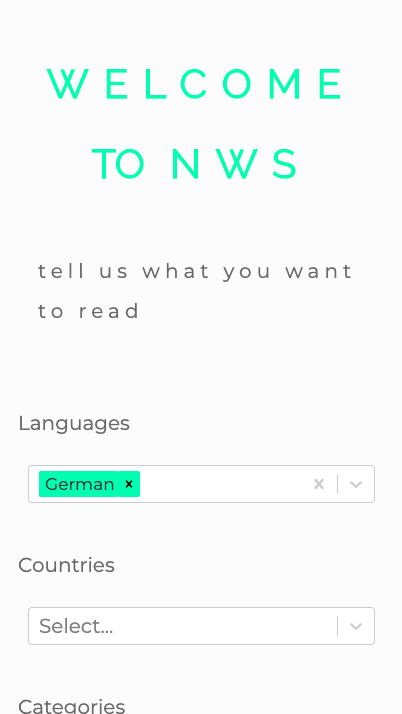
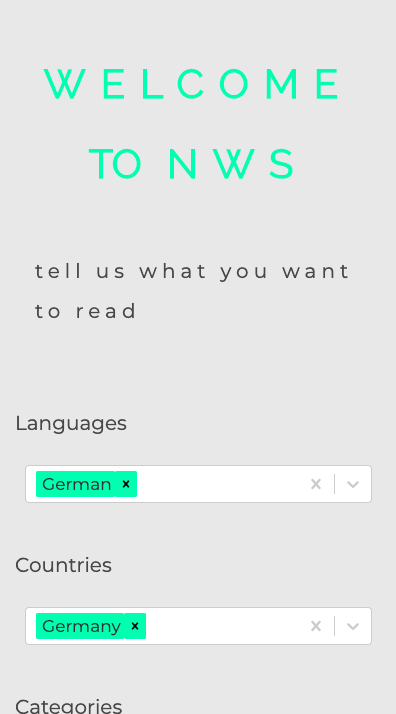
styling faffing

diff --git a/src/pages/News/News.js b/src/pages/News/News.js
@@ -3,7 +3,7 @@ import { navigate } from 'hookrouter';
 
 // styled components
 import Header from '../../components/styled-components/Header'
-import CategoryButton from '../../components/styled-components/styled-buttons/CategoryButton'
+import NavigationButton from '../../components/styled-components/styled-buttons/NavigationButton'
 import SubmitButton from '../../components/styled-components/styled-buttons/SubmitButton'
 
 // other components
@@ -32,10 +32,10 @@ const News = () => {
       <Header data-testid='headerContainer'>
         <h1>NWS</h1>
         <h2>Your Headlines</h2>
-        <nav className='center' data-testid='navContainer'>
+        <nav data-testid='navContainer'>
           {
             categoriesArray && categoriesArray.map((category,i) => {
-              return <CategoryButton onClick={() => handleClick(category)} key={i}>{category}</CategoryButton>
+              return <NavigationButton onClick={() => handleClick(category)} key={i}>{category}</NavigationButton>
             })
           }
         </nav>
@@ -45,7 +45,7 @@ const News = () => {
           categoriesArray && countriesArray && languagesArray && categoriesArray.map(category => {
             return countriesArray.map(country => {
               return languagesArray.map((language, i) => {
-                return <Http key={i} language={language} country={country} category={category} chosenCategory={chosenCategory} handleClick={handleClick}></Http>
+                return <Http key={i} language={language} country={country} category={category} chosenCategory={chosenCategory} handleClick={handleClick} />
               })
             })
           })

diff --git a/src/pages/Home/Home.js b/src/pages/Home/Home.js
@@ -14,13 +14,20 @@ const Home = () => {
   const [languagesChosen, handleChangeLanguages] = useState([]);
   const [countriesChosen, handleChangeCountries] = useState([]);
   const [categoriesChosen, handleChangeCategories] = useState([]);
+  const [completed, fieldsCompleted] = useState(true);
 
   const submitForm = (e) => {
-    e.preventDefault()
-    localStorage.setItem('languagesChosen', JSON.stringify(languagesChosen));
-    localStorage.setItem('countriesChosen', JSON.stringify(countriesChosen));
-    localStorage.setItem('categoriesChosen', JSON.stringify(categoriesChosen));
-    navigate('/news');
+    if (languagesChosen.length && countriesChosen.length && categoriesChosen.length) {
+      e.preventDefault()
+      localStorage.setItem('languagesChosen', JSON.stringify(languagesChosen));
+      localStorage.setItem('countriesChosen', JSON.stringify(countriesChosen));
+      localStorage.setItem('categoriesChosen', JSON.stringify(categoriesChosen));
+      navigate('/news');
+    } else {
+      e.preventDefault()
+      fieldsCompleted(!completed)
+    }
+    
   };
 
   return (
@@ -37,6 +44,7 @@ const Home = () => {
         <label>Categories</label>
         <FormSelect selectOptions={[...categories]} onChange={(e) => handleChangeCategories(e.map(option => option.value))}/>
         <div className='center'>
+          {!completed && <small>Please fill in all the fields</small>} 
           <SubmitButton data-testid='formButton' onClick={(e) => submitForm(e)}>Let&apos;s Go</SubmitButton>
         </div>
         

diff --git a/src/components/Article/Article.js b/src/components/Article/Article.js
@@ -10,18 +10,22 @@ const Article = ({ article, handleClick }) => {
   return (
     <StyledArticle data-testid='articleContainer'>
       <img src={article.urlToImage} alt={article.title}/>
-      <h2><a href={article.url} rel='noopener noreferrer' target='_blank'>{article.title}</a></h2>
-      <h3>{article.source.name}</h3>
-      <ToggleButton data-testid='toggleButton' onClick={() => toggleShow(!show)}>
-        +
-      </ToggleButton>
-      {
-        show && 
-        <div data-testid='toggleDescription'>
-          <p><strong> {article.country} </strong> {article.description}</p>
-          <CategoryButton onClick={() => handleClick(article.category)}>{article.category}</CategoryButton>
-        </div>
-      }
+      <div>
+        <h2><a href={article.url} rel='noopener noreferrer' target='_blank'>{article.title}</a></h2>
+        <h3>{article.source.name}</h3>
+      
+        <ToggleButton data-testid='toggleButton' onClick={() => toggleShow(!show)}>
+          +
+        </ToggleButton>
+        {
+          show &&
+          <div data-testid='toggleDescription'>
+            <p><strong> {article.country} </strong> {article.description}</p>
+            <CategoryButton onClick={() => handleClick(article.category)}>{article.category}</CategoryButton>
+          </div>
+        }
+      </div>
+      
     </StyledArticle>
   );
 };

diff --git a/src/components/Http/Http.js b/src/components/Http/Http.js
@@ -27,7 +27,6 @@ const Http = ({ language, country, category, chosenCategory, handleClick }) => {
       try {
         const { data } = await get(`https://newsapi.org/v2/top-headlines?sources=${source.id}&apiKey=${token}`);
         let articles = data.articles.map(article => {
-          article.country = country;
           article.category = category;
           return article;
         });
@@ -41,7 +40,7 @@ const Http = ({ language, country, category, chosenCategory, handleClick }) => {
     const getSourcesData = memoize(async (language, country, category) => {
       try {
         const { data } = await get(`https://newsapi.org/v2/sources?language=${language}&country=${country}&category=${category}&apiKey=${token}`)
-        let { sources } = data.sources
+        let sources  = data.sources
         if (sources.length) return sources
       } catch (error) {
         navigate('/error')

diff --git a/src/components/styled-components/Header.js b/src/components/styled-components/Header.js
@@ -15,7 +15,7 @@ const Header = styled.header`
   h2 {
     font-family: 'Montserrat', sans-serif;
     color: ${props => props.theme.text};
-    font-size: 20px;
+    font-size: 25px;
     line-height: 40px;
     letter-spacing: 5px;
     text-align: center;
@@ -28,17 +28,23 @@ const Header = styled.header`
     letter-spacing: 5px;
   }
   
-  .center {
-    flex-direction: row;
-    justify-content: center;
+  nav {
     margin-top: 80px;
   }
 
   @media screen and (min-width: 900px) { 
+    h2 {
+      font-size: 80px;
+    }
+
+    nav {
+      margin: 10% 20% 0% 20%;
+    }
+
     .news-feed {
       margin: 0px 20%;
     }
-}
+  }
 `;
 
 export default Header;

diff --git a/src/components/styled-components/styled-buttons/NavigationButton.js b/src/components/styled-components/styled-buttons/NavigationButton.js
@@ -1,0 +1,22 @@
+import styled from 'styled-components';
+
+const NavigationButton = styled.button`
+  border:  none;
+  text-transform: uppercase;
+  letter-spacing: 3px;
+  border-bottom: 3px solid #00FFB2;
+  background-color: transparent;
+  padding: 5px 10px;
+  font-size: 12px;
+  margin: 10px 25px 0px 0px;
+  font-family: 'Raleway', sans-serif;
+  color: ${props => props.theme.text};
+  
+  @media screen and (min-width: 900px) { 
+    font-size: 20px;
+    margin-left: 35px;
+  }
+
+`;
+
+export default NavigationButton;

diff --git a/src/App.js b/src/App.js
@@ -22,8 +22,8 @@ const routes = {
 };
 
 const themeLight = {
-  text: '#696969',
-  backGround: '#faf8f86e'
+  text: '#474747',
+  backGround: '#E8E8E8'
 };
 
 const themeDark = {
@@ -34,7 +34,7 @@ const themeDark = {
 const currentTime = new Date();
 const hours = currentTime.getUTCHours();
 
-const timeCheck = hours > 20 || hours < 8 ? themeDark : themeLight ;
+const timeCheck = hours > 14 || hours < 8 ? themeDark : themeLight ;
 
 const App = () => {
   const routeResult = useRoutes(routes);

diff --git a/src/components/styled-components/GlobalStyle.js b/src/components/styled-components/GlobalStyle.js
@@ -28,6 +28,12 @@ const GlobalStyle = createGlobalStyle`
     justify-content: space-around;
     align-items: center;
   }
+
+  small {
+    margin: 20px;
+    color: ${props => props.theme.text};
+    font-family: 'Montserrat', sans-serif;
+  }
 `;
 
 export default GlobalStyle;

diff --git a/src/components/Form/FormSelect.js b/src/components/Form/FormSelect.js
@@ -11,6 +11,7 @@ const FormSelect = ({selectOptions, onChange}) => {
       closeMenuOnSelect={false}
       components={animatedComponents}
       isMulti
+      required
       onChange={onChange}
       options={selectOptions}
       styles={{ 

diff --git a/src/components/styled-components/StyledArticle.js b/src/components/styled-components/StyledArticle.js
@@ -27,10 +27,11 @@ const StyledArticle = styled.div`
     width: 80vw;
     border-radius: 1%;
   }
+  
 
   @media screen and (min-width: 900px) {
     margin: 5% 20%;
-
+    
     a {
       font-size: 30px;
       line-height: 60px;

diff --git a/README.md b/README.md
@@ -23,14 +23,17 @@ See the section about [running tests](https://facebook.github.io/create-react-ap
 
 When the user first lands on the website they have to fill in a form which saves to local storage the languages, countries and topics they want their newsfeed to contain. 
 
-<img src="./readme-assets/home-desktop.png"  width=400> 
-<img src="./readme-assets/home-mobile.png" width=200>
+<img src="./readme-assets/home-mobile.png" width=400>
 
 The user only has to fill this form once, but they do have the choice in their newsfeed to navigate back to their preferences if they do want to change it. 
 
 Once on the newsfeed, the user can filter through articles if they are interested in more than one category. 
 
+<img src="./readme-assets/newsfeed-mobile.png" width=400>
+
 From each article, the user can expand to read more and if they click on the category of the article that filters the newsfeed to the articles in that category.
+
+<img src="./readme-assets/expand-mobile.png" width=400>
 
 ----
 
@@ -38,7 +41,7 @@ From each article, the user can expand to read more and if they click on the cat
 
 I used themes to change the appearance of the app based on the time of day. If it's after 8pm and before 8am the app has a dark theme, otherwise it has a light theme. Here is an example of an article in dark/light theme:
 
-<img src="./readme-assets/themes.png"  width=600> 
+<img src="./readme-assets/themes.png"  width=700> 
 
 ----
 
